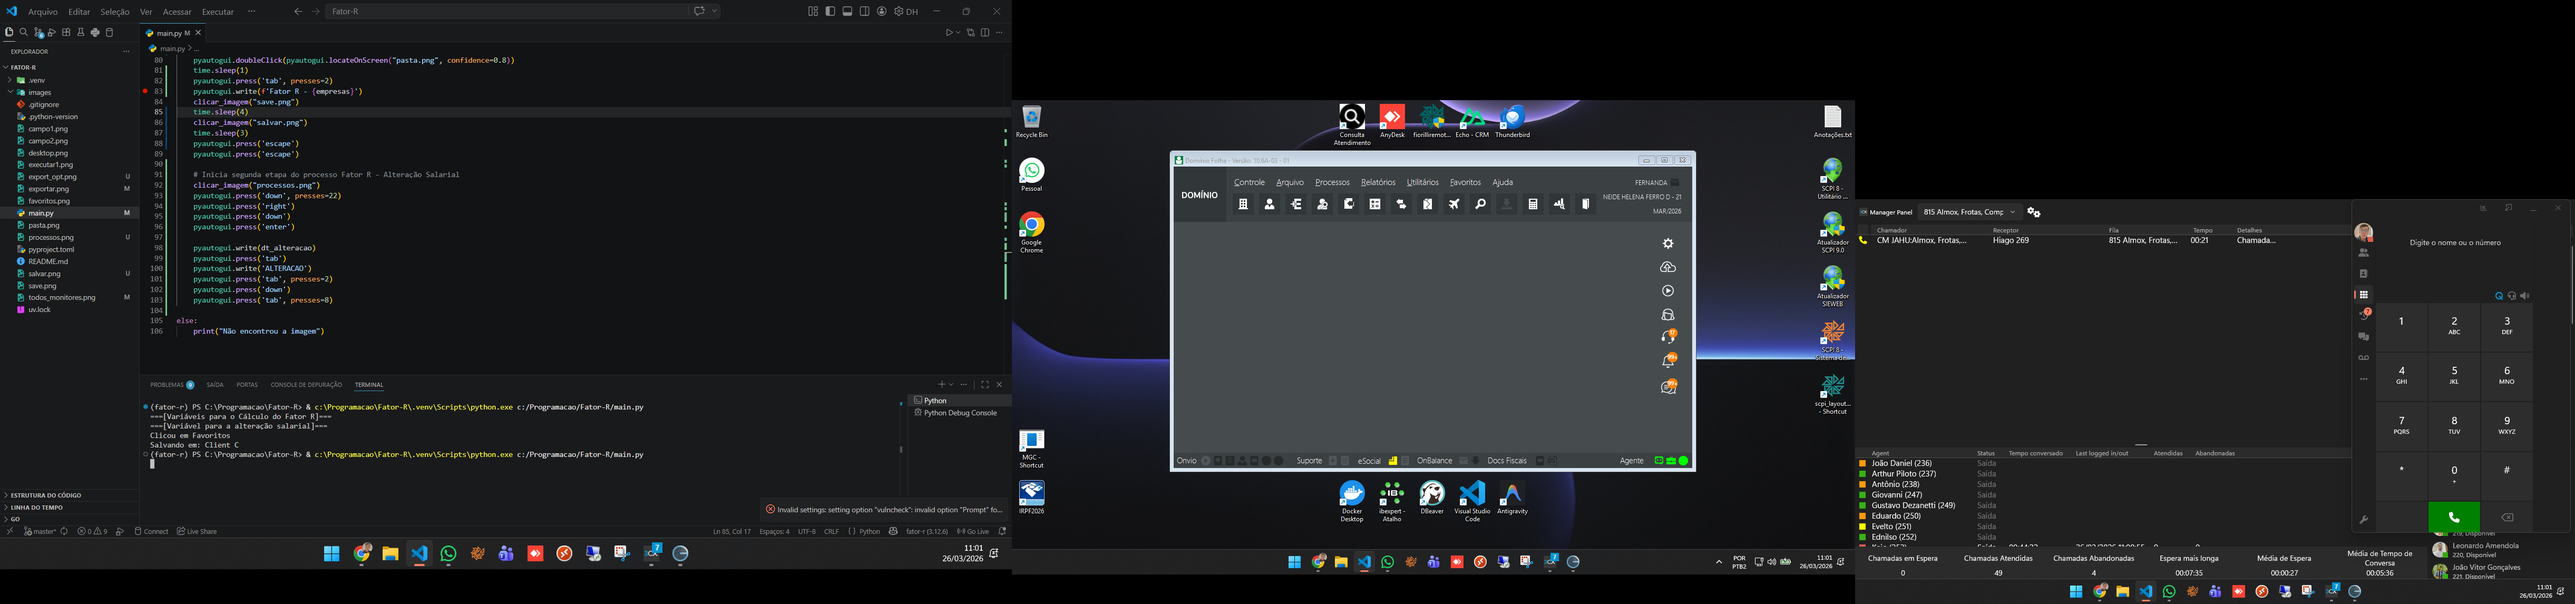
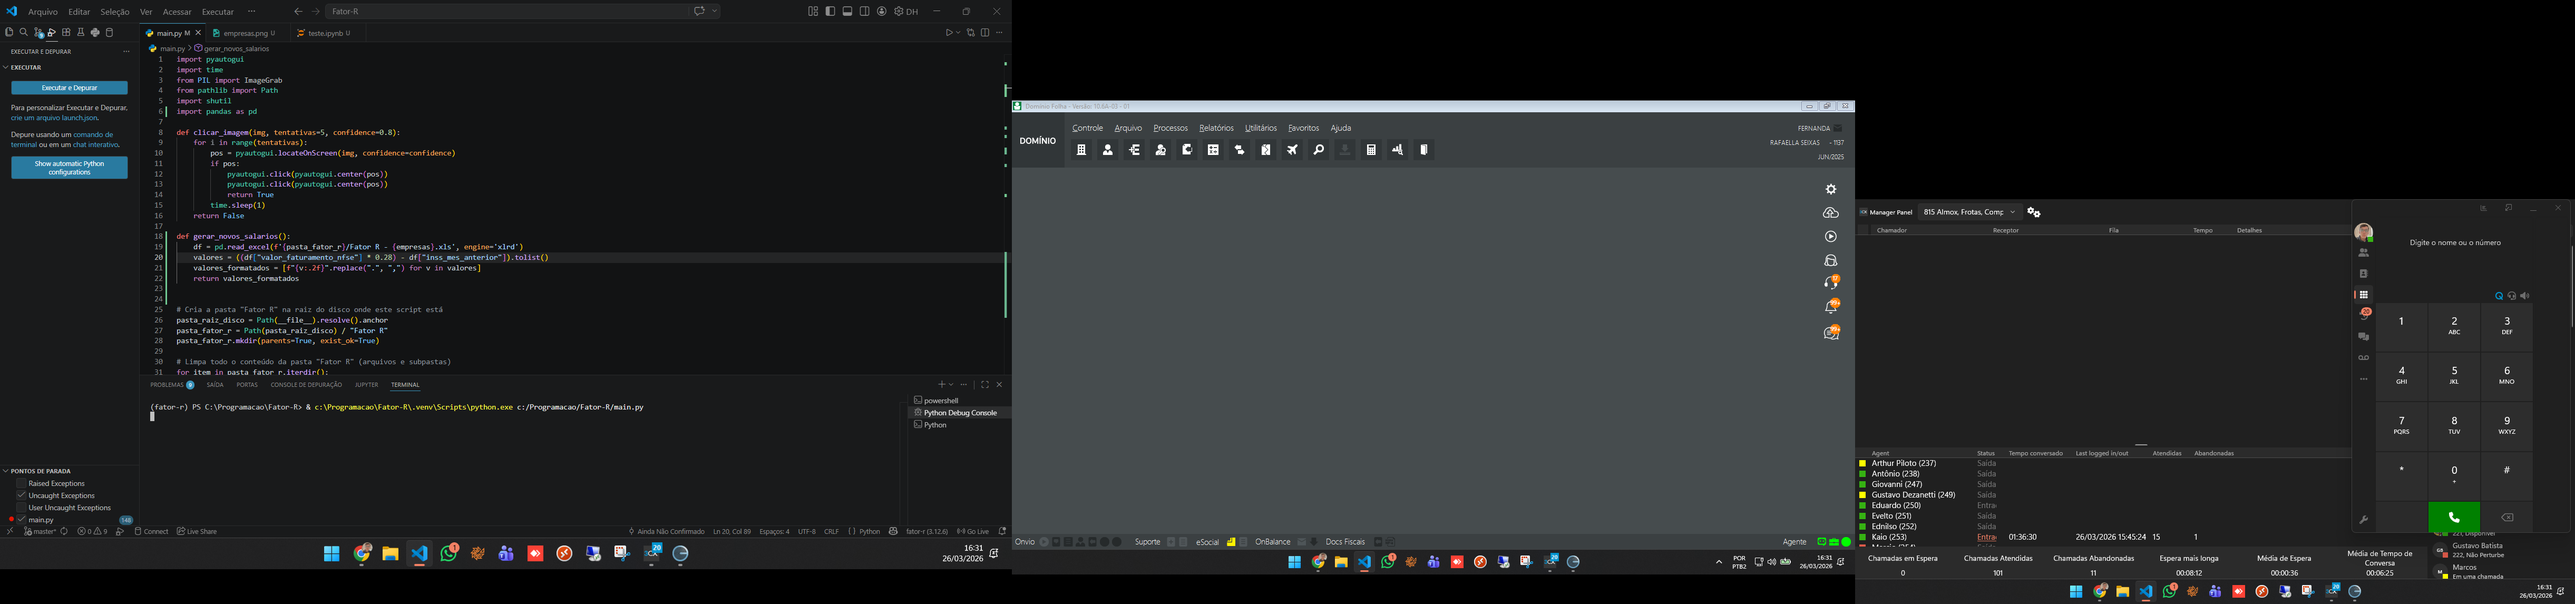
Add new image files and Jupyter notebook for data analysis
- Added 'empresa_input.png', 'empresas.png', and 'nenhuma.png' image files.
- Created 'teste.ipynb' Jupyter notebook for data analysis, including data loading and processing.
- Implemented calculations for 'valor_faturamento_nfse' and 'inss_mes_anterior' in the notebook.

diff --git a/main.py b/main.py
@@ -3,6 +3,7 @@ import time
 from PIL import ImageGrab
 from pathlib import Path
 import shutil
+import pandas as pd
 
 def clicar_imagem(img, tentativas=5, confidence=0.8):
     for i in range(tentativas):
@@ -13,6 +14,13 @@ def clicar_imagem(img, tentativas=5, confidence=0.8):
             return True
         time.sleep(1)
     return False
+
+def gerar_novos_salarios():
+    df = pd.read_excel(f'{pasta_fator_r}/Fator R - {empresas}.xls', engine='xlrd')
+    valores = ((df["valor_faturamento_nfse"] * 0.28) - df["inss_mes_anterior"]).tolist()
+    valores_formatados = [f"{v:.2f}".replace(".", ",") for v in valores]
+    return valores_formatados
+
 
 # Cria a pasta "Fator R" na raiz do disco onde este script está
 pasta_raiz_disco = Path(__file__).resolve().anchor
@@ -31,28 +39,28 @@ screenshot = ImageGrab.grab(all_screens=True)
 screenshot.save('todos_monitores.png')
 
 print("===[Variáveis para o Cálculo do Fator R]===")
-empresas = '1104, 1105, 1106'#input("Digite o(s) código(s) (separados por vírgula): ")
+empresas = '323,326,327'#input("Digite o(s) código(s) (separados por vírgula): ")
 dt_inicio = '12/2025'#input("Competência inicial (MM/AAAA): ")
 dt_fim = '12/2025'#input("Competência final (MM/AAAA): ")
 
 print("===[Variável para a alteração salarial]===")
-dt_alteracao = '31/12/2025'#input("Data da alteração salarial (DD/MM/AAAA): ")
+dt_alteracao = '31/12/2026'#input("Data da alteração salarial (DD/MM/AAAA): ")
 
 # chamada da função
 if clicar_imagem("favoritos.png"):
     print("Clicou em Favoritos")
     pyautogui.press('down')
     pyautogui.press('enter')
-    time.sleep(1)
+    time.sleep(3)
     pyautogui.write('Relatórios')
-    time.sleep(1)
+    time.sleep(2)
     pyautogui.write('Diversos')
     pyautogui.press('enter')
     pyautogui.write('Cálculo Fator R')
     pyautogui.press('enter')
     time.sleep(2)
     
-    clicar_imagem("campo1.png")
+    pyautogui.doubleClick(pyautogui.locateOnScreen("campo1.png", confidence=0.8))
     pyautogui.write(empresas)
 
     pyautogui.press('tab')
@@ -69,6 +77,7 @@ if clicar_imagem("favoritos.png"):
     pyautogui.press('p')
     time.sleep(2)
     clicar_imagem("export_opt.png")
+    pyautogui.press('enter')
     time.sleep(2)
     clicar_imagem("desktop.png")
     time.sleep(2)
@@ -100,7 +109,42 @@ if clicar_imagem("favoritos.png"):
     pyautogui.write('ALTERACAO')
     pyautogui.press('tab', presses=2)
     pyautogui.press('down')
-    pyautogui.press('tab', presses=8)
+    time.sleep(2)
+    clicar_imagem("empresas.png")
+    time.sleep(0.1)
+    # pyautogui.press('enter')                                
 
+    time.sleep(2)
+
+    clicar_imagem("nenhuma.png")
+    pyautogui.doubleClick(pyautogui.locateOnScreen("empresa_input.png", confidence=0.8))
+
+    for empresa in empresas.split(','):
+        pyautogui.write(empresa.strip())
+        pyautogui.press('tab', presses=8)
+        pyautogui.hotkey('shift','space')
+
+        for i in range(8):
+            pyautogui.hotkey('shift', 'tab')
+            time.sleep(0.1) # Aguarda 100ms entre cada tab
+
+        pyautogui.doubleClick(pyautogui.locateOnScreen("empresa_input.png", confidence=0.8))
+
+    pyautogui.press('tab')
+    pyautogui.press('enter')
+    
+    for i in range(2):
+        pyautogui.hotkey('shift', 'tab')
+        time.sleep(0.1) # Aguarda 100ms entre cada tab
+    
+    pyautogui.press('enter')
+    pyautogui.press('enter')
+    time.sleep(2)
+
+    valores = gerar_novos_salarios()
+
+    for valor in valores:
+        pyautogui.write(str(valor))
+        pyautogui.press('tab')
 else:
     print("Não encontrou a imagem")
